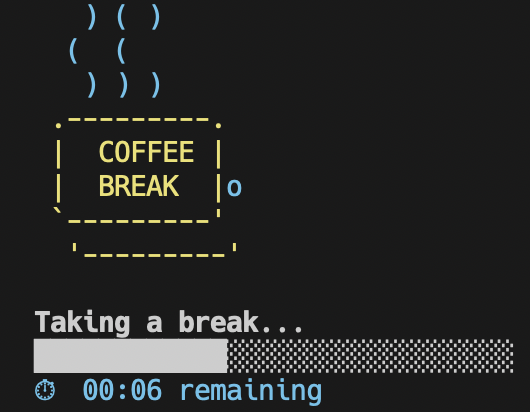
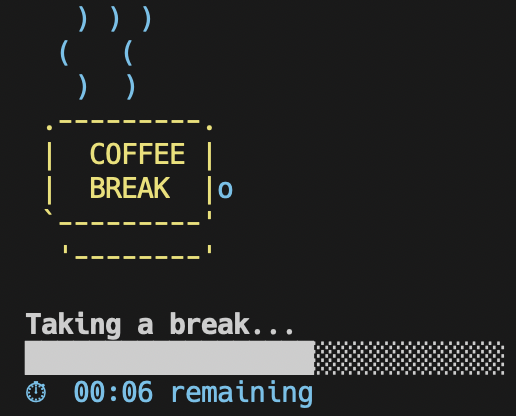
Polish animation, simplify README, and update demo screenshot
- Fix \n → \r\n in coffee-break.sh for clean TTY rendering
- Simplify README installation section and make it host-agnostic
- Update demo screenshot
- Improve Codex SKILL.md generation in setup script

diff --git a/README.md b/README.md
@@ -4,28 +4,20 @@
 
 > Coffee break for the AI agent — because even agents need rest!
 
-A Claude Code skill that gives the AI agent a timed coffee break — complete with an animated ASCII coffee cup right in your terminal.
+A skill for AI coding agents — gives the agent a timed coffee break complete with an animated ASCII coffee cup right in your terminal. Supports Claude Code and Codex.
 
 ## Installation
-
-### Claude Code
-
-```bash
-git clone https://github.com/zondatw/coffee-break ~/.claude/skills/coffee-break
-```
-
-### Codex
-
-```bash
-git clone https://github.com/zondatw/coffee-break
-cd coffee-break && ./setup --host codex
-```
-
-### Auto-detect (installs for whichever CLIs are available)
 
 ```bash
 git clone https://github.com/zondatw/coffee-break
 cd coffee-break && ./setup
+```
+
+`./setup` auto-detects which CLIs are installed. You can also target a specific host:
+
+```bash
+./setup --host claude   # Claude Code only
+./setup --host codex    # Codex only
 ```
 
 ## Usage
@@ -51,8 +43,8 @@ The agent parses natural duration formats (`5 minutes`, `2m`, `30s`, `1 min`) an
 - Shows a live countdown timer and progress bar
 - Greets you back when the break is over
 
-The animation renders in Claude Code's own terminal window — no new window or tab is opened.
+The animation renders directly in the agent's terminal window — no new window or tab is opened.
 
 ## How it works
 
-`coffee-break.sh` walks up the process tree from its PID to find the parent terminal's TTY device, then writes ANSI escape codes and animation frames directly to it. This lets the animation appear in Claude Code's terminal even though Claude itself is running as a subprocess.
+`coffee-break.sh` walks up the process tree from its PID to find the parent terminal's TTY device, then writes ANSI escape codes and animation frames directly to it. This lets the animation appear in the terminal even though the agent is running as a subprocess.
